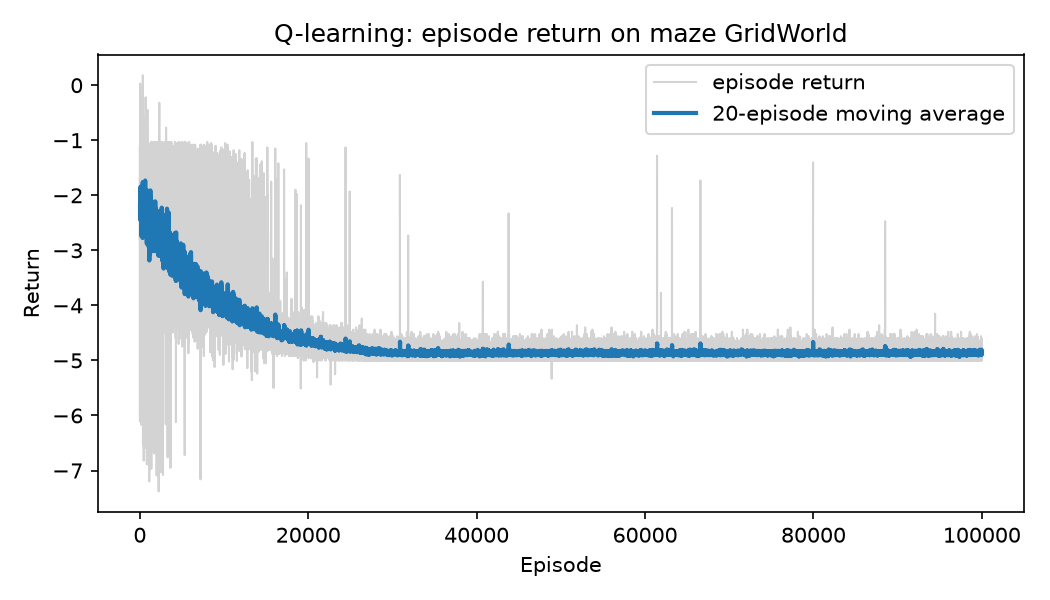
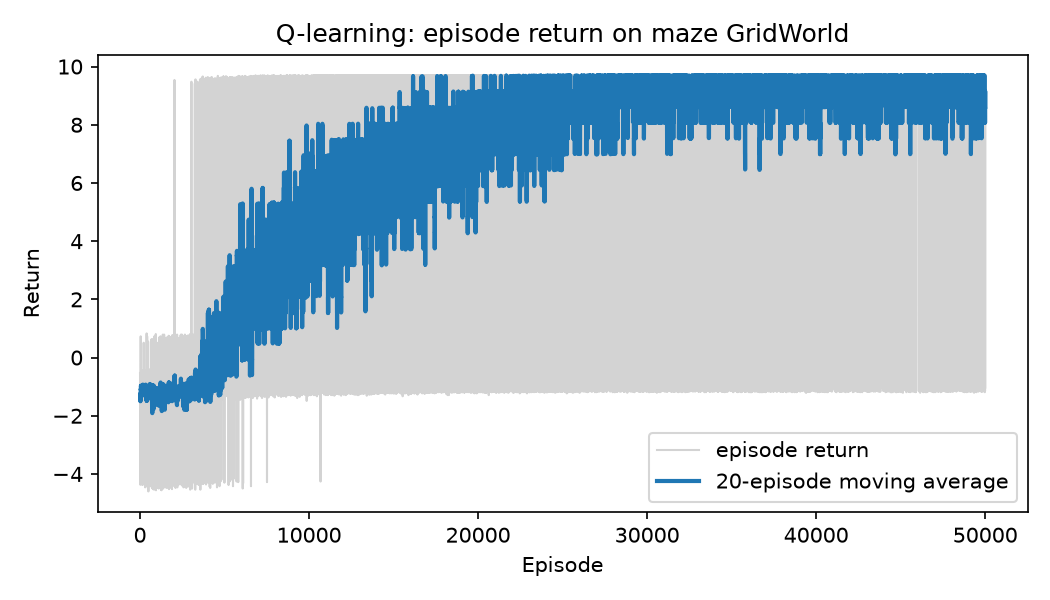
Maze gridworld finished

diff --git a/gridworld/mining_config.py b/gridworld/mining_config.py
@@ -39,6 +39,10 @@ import numpy as np
 
 from .config import GridWorldConfig
 
+from gridworld.examples import make_deep_mining_gridworld
+env = make_deep_mining_gridworld()
+print(env.config.describe_mining_schedule())
+
 # Schedules for p_positive(m), the probability that the m-th mining attempt
 # at a node succeeds. Every schedule must be non-increasing in m.
 POSITIVE_PROBABILITY_SCHEDULES = ("constant", "linear", "geometric")

diff --git a/scripts/run_q_learning_maze.py b/scripts/run_q_learning_maze.py
@@ -31,13 +31,14 @@ def main() -> None:
 
     Q, policy, episode_returns, episode_lengths = q_learning(
         env,
-        episodes=100000,
+        episodes=50000,
         alpha=0.2,
-        gamma=0.99,
+        gamma=0.999,
         epsilon=1.0,
         epsilon_min=0.05,
         epsilon_decay=0.9999,
         seed=0,
+        q_init=10.0,
     )
 
     print("")

diff --git a/gridworld/maze_gridworld.py b/gridworld/maze_gridworld.py
@@ -34,7 +34,7 @@ def make_maze_gridworld(seed: int | None = 0, render_mode: str | None = None) ->
         rewards={},
         walls=walls,
         step_reward=-0.01,
-        invalid_move_reward=-0.05,
+        invalid_move_reward=0,
         slip_probability=0.0,
         max_steps=100,
         seed=seed,

diff --git a/gridworld/q_learning.py b/gridworld/q_learning.py
@@ -67,7 +67,7 @@ def q_learning(
     """
     n_states = env.n_states
     n_actions = env.action_space.n
-    Q = np.full((n_states, n_actions),1)
+    Q = np.full((n_states, n_actions),10.0)
     rng = np.random.default_rng(seed)
 
     episode_returns: list[float] = []

diff --git a/scripts/run_mining_q_learning.py b/scripts/run_mining_q_learning.py
@@ -1,0 +1,3 @@
+from gridworld.examples import make_deep_mining_gridworld
+env = make_deep_mining_gridworld()
+print(env.config.describe_mining_schedule())
